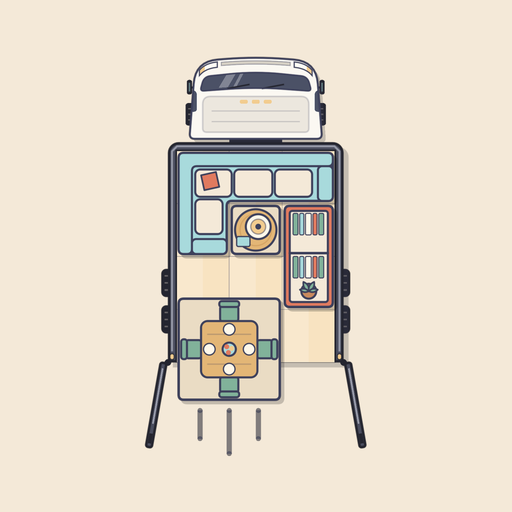
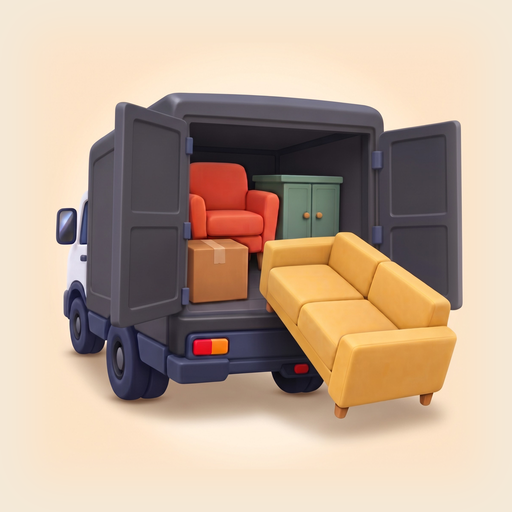
Add files via upload

diff --git a/privacy.html b/privacy.html
@@ -99,7 +99,8 @@
     Games shows your gamer name and profile picture, and your achievements according to your Play Games
     privacy settings. We do not receive your Google account details. If you do not sign in, the game works
     the same and your progress stays on your device only. You can delete this game's data from your Play
-    Games profile settings, and its saved game from your Google Drive storage settings.</p>
+    Games profile settings, and its saved game from your Google Drive storage settings; step by step, on
+    <a href="delete-data.html">Delete your data</a>.</p>
 
     <h3>4. Advertising (Google AdMob)</h3>
     <p>In the free version, you can choose to watch a rewarded video ad to get a hint. Ads are provided by
@@ -178,7 +179,7 @@
     privacidad de Play Juegos. Nosotros no recibimos los datos de tu cuenta de Google. Si no inicias sesión,
     el juego funciona igual y tu progreso se queda solo en tu dispositivo. Puedes borrar los datos de este juego
     desde los ajustes de tu perfil de Play Juegos, y su partida guardada desde los ajustes de almacenamiento
-    de Google Drive.</p>
+    de Google Drive; paso a paso, en <a href="delete-data.html#es">Borrar tus datos</a>.</p>
 
     <h3>4. Publicidad (Google AdMob)</h3>
     <p>En la versión gratuita puedes elegir ver un anuncio en vídeo para conseguir una pista. Los anuncios los

diff --git a/index.html b/index.html
@@ -35,7 +35,7 @@
     display: inline-block; padding: 4px 12px; border-radius: 999px;
     background: var(--sage); color: var(--ink); font-weight: 600; font-size: 0.9rem;
   }
-  .links { margin-top: 12px; }
+  .links { margin-top: 8px; }
   a { color: var(--coral); }
   footer { margin-top: 48px; text-align: center; opacity: 0.7; font-size: 0.9rem; }
 </style>
@@ -52,6 +52,7 @@
       <p>A cozy puzzle game: load every piece of furniture into the moving truck before time runs out.</p>
       <span class="soon">Coming soon to Google Play</span>
       <div class="links"><a href="privacy.html">Privacy policy / Política de privacidad</a></div>
+      <div class="links"><a href="delete-data.html">Delete your data / Borrar tus datos</a></div>
     </div>
   </div>
 
